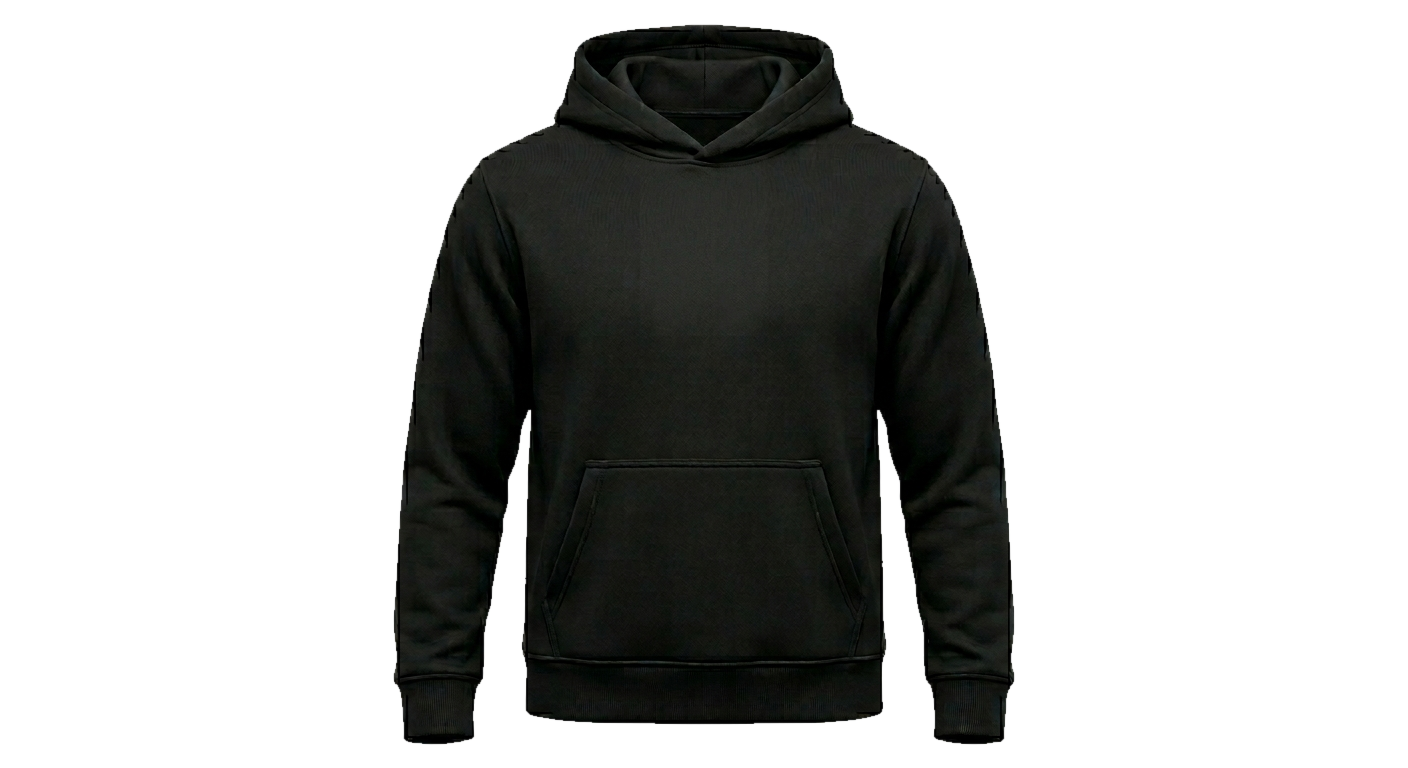
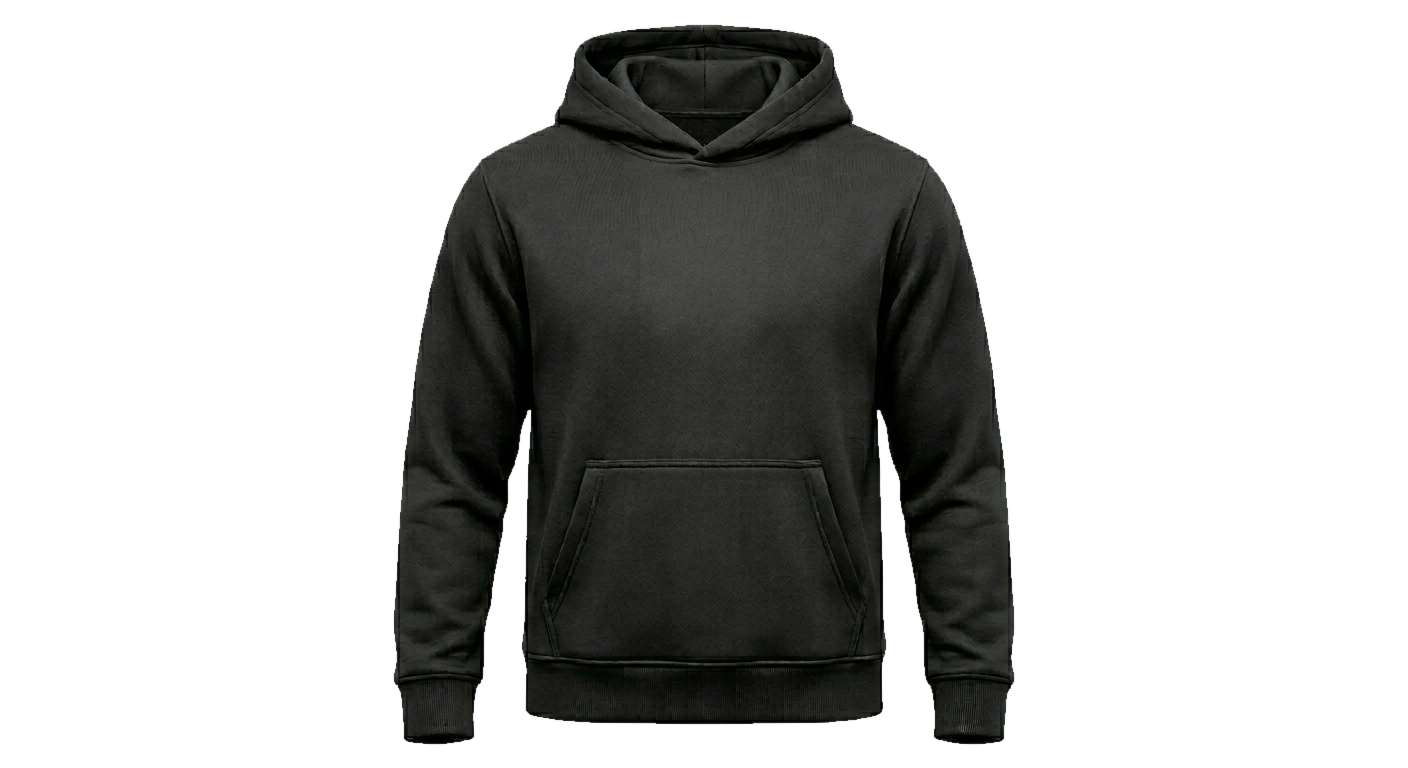
style(vault): downscale sandwatch vectors and shift alfanumeric dial higher on chest layout

diff --git a/index.html b/index.html
@@ -633,13 +633,13 @@
                 <div class="absolute inset-0 flex items-center justify-center p-[4%] z-10">
                     <svg id="laser-vector-target-3" viewBox="0 0 400 400" class="w-full h-full fill-none stroke-white/40 stroke-[1.5] transition-all duration-500 group-hover:stroke-white/60">
                         
-                        <g class="opacity-30 stroke-[1.2] translate-y-[-20px]">
+                        <g class="opacity-30 stroke-[1.2] origin-center transform scale-75 translate-y-[-50px]">
                             <path d="M 110,120 L 290,120 L 110,280 L 290,280 Z" />
                             <path d="M 110,120 Q 200,150 290,120" />
                             <path d="M 110,280 Q 200,250 290,280" stroke-dasharray="2 2" />
                         </g>
 
-                        <text class="big-dial-target fill-white font-black text-[38px] tracking-[0.03em] transition-all duration-500 drop-shadow-[0_0_8px_rgba(255,255,255,0.2)] group-hover:drop-shadow-[0_0_20px_rgba(255,255,255,0.6)]" x="200" y="196" font-family="'Orbitron', sans-serif" font-weight="900" text-anchor="middle">
+                        <text class="big-dial-target fill-white font-black text-[38px] tracking-[0.03em] transition-all duration-500 drop-shadow-[0_0_8px_rgba(255,255,255,0.2)] group-hover:drop-shadow-[0_0_20px_rgba(255,255,255,0.6)]" x="200" y="165" font-family="'Orbitron', sans-serif" font-weight="900" text-anchor="middle">
                             ------
                         </text>
                     </svg>
@@ -652,6 +652,7 @@
                 GET HOODIE
             </button>
         </div>
+    </div>
     </div>
 
 